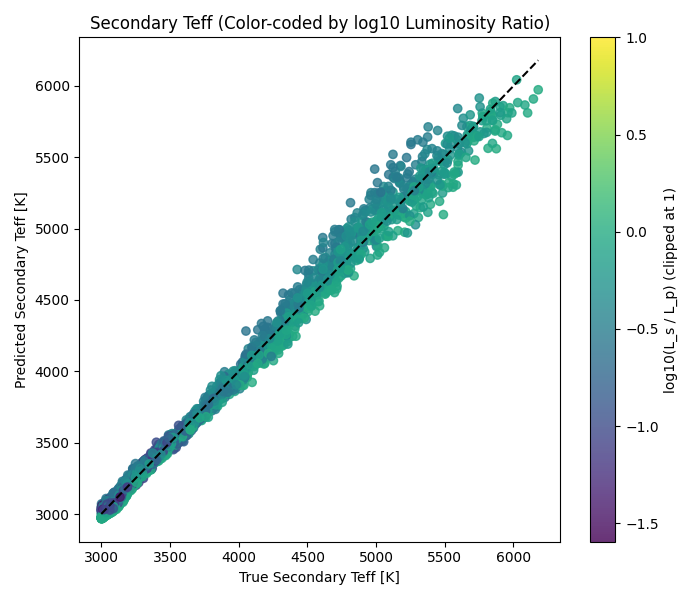
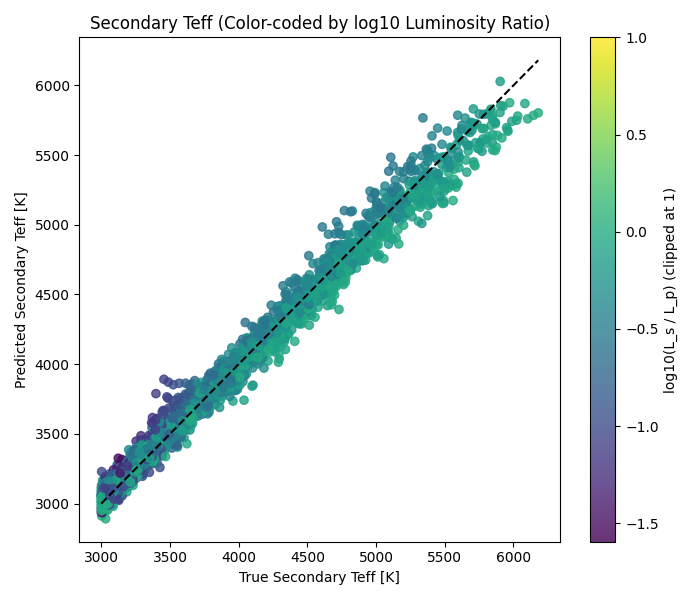
save

diff --git a/ANN/bANN.py b/ANN/bANN.py
@@ -20,7 +20,8 @@ from bANN_utils import (
     plot_mask_check,
     plot_teff_with_luminosity_ratio,
     evaluate_koi_predictions,
-    plot_mse
+    plot_mse,
+    heteroscedastic_loss
 )
 
 # ==========================
@@ -128,12 +129,40 @@ def train_and_evaluate():
         for xb, yb in train_loader:
             xb, yb = xb.to(device), yb.to(device)
 
-            pred = model(xb)
+            # pred = model(xb)
 
             # Proper weighted MSE
-            loss_per_param = (pred - yb) ** 2
-            weighted_loss = loss_per_param * weights
-            loss = weighted_loss.mean()
+            # loss_per_param = (pred - yb) ** 2
+            # weighted_loss = loss_per_param * weights
+            # loss = weighted_loss.mean()
+
+            #####################
+
+            # criterion = nn.MSELoss()
+            # pred = model(xb)
+            # loss = criterion(pred, yb)
+
+
+            pred = model(xb)
+
+            # compute luminosity ratio from TRUE labels (UNSCALED)
+            yb_unscaled = torch.tensor(
+                y_scaler.inverse_transform(yb.cpu().numpy()),
+                dtype=torch.float32,
+                device=device
+            )
+
+            p_teff = yb_unscaled[:, label_names.index("p_teff")]
+            s_teff = yb_unscaled[:, label_names.index("s_teff")]
+            p_rad  = yb_unscaled[:, label_names.index("p_radius")]
+            s_rad  = yb_unscaled[:, label_names.index("s_radius")]
+
+            lum_ratio = (s_rad / p_rad)**2 * (s_teff / p_teff)**4
+
+            loss = heteroscedastic_loss(pred, yb, lum_ratio, label_names)
+            val_loss += heteroscedastic_loss(pred, yb, lum_ratio, label_names).item()
+
+            #####################
 
             optimizer.zero_grad()
             loss.backward()
@@ -153,9 +182,12 @@ def train_and_evaluate():
                 xb, yb = xb.to(device), yb.to(device)
 
                 pred = model(xb)
-                loss_per_param = (pred - yb) ** 2
-                weighted_loss = loss_per_param * weights
-                val_loss += weighted_loss.mean().item()
+                val_loss += criterion(pred, yb).item()
+
+                # pred = model(xb)
+                # loss_per_param = (pred - yb) ** 2
+                # weighted_loss = loss_per_param * weights
+                # val_loss += weighted_loss.mean().item()
 
         val_loss /= len(test_loader)
         val_losses.append(val_loss)

diff --git a/ANN/bANN_utils.py b/ANN/bANN_utils.py
@@ -41,23 +41,31 @@ class StellarDataset(Dataset):
         return self.X[idx], self.y[idx]
 
 # ========== MODEL ==========
+# class StellarANN(nn.Module):
+#     def __init__(self, n_input, n_output):
+#         super().__init__()
+#         self.net = nn.Sequential(
+#             nn.Linear(n_input, 128),
+#             nn.ReLU(),
+#             # nn.BatchNorm1d(128),
+#             nn.Dropout(0.1),
+
+#             nn.Linear(128, 64),
+#             nn.ReLU(),
+
+#             nn.Linear(64, n_output)
+#         )
+
+
+#     def forward(self, x):
+#         return self.net(x)
+
 class StellarANN(nn.Module):
     def __init__(self, n_input, n_output):
         super().__init__()
         self.net = nn.Sequential(
-            nn.Linear(n_input, 256),
+            nn.Linear(n_input, 64),
             nn.ReLU(),
-            nn.BatchNorm1d(256),
-            nn.Dropout(0.2),
-
-            nn.Linear(256, 128),
-            nn.ReLU(),
-            nn.BatchNorm1d(128),
-            nn.Dropout(0.2),
-
-            nn.Linear(128, 64),
-            nn.ReLU(),
-
             nn.Linear(64, n_output)
         )
 
